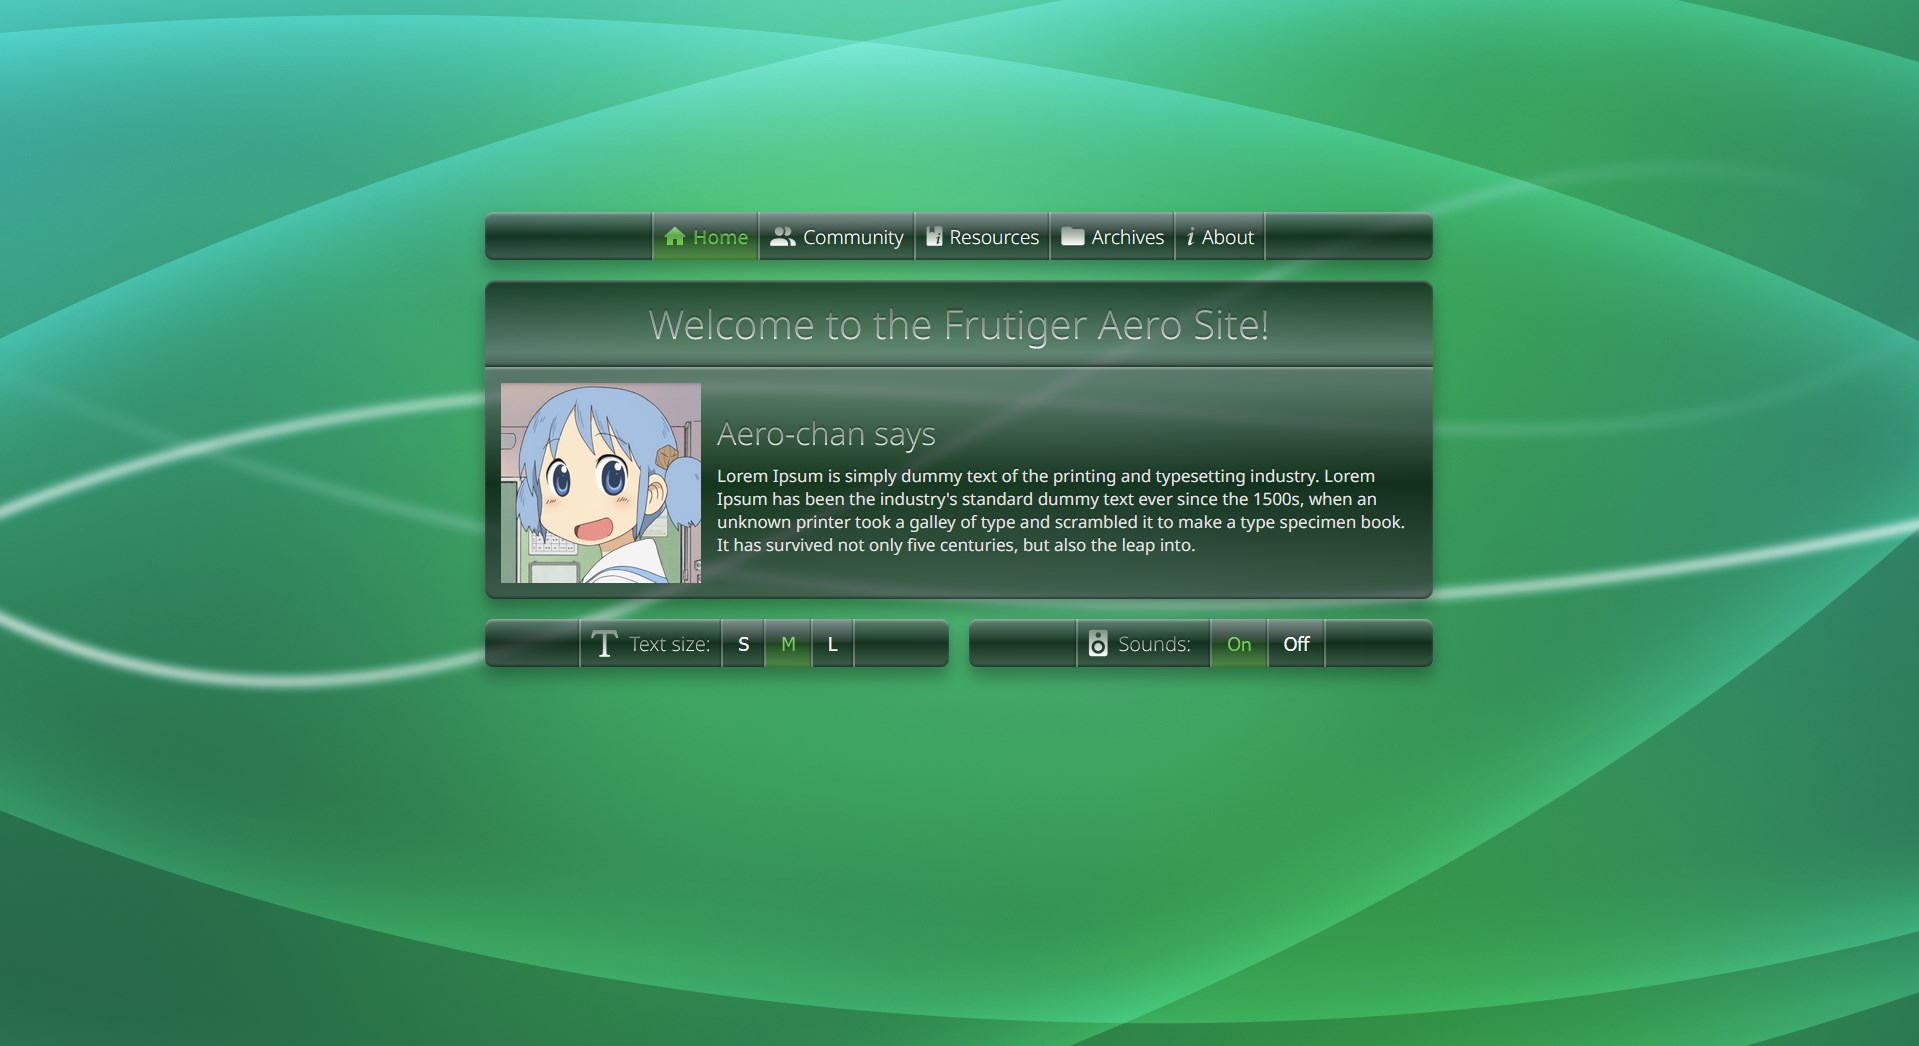
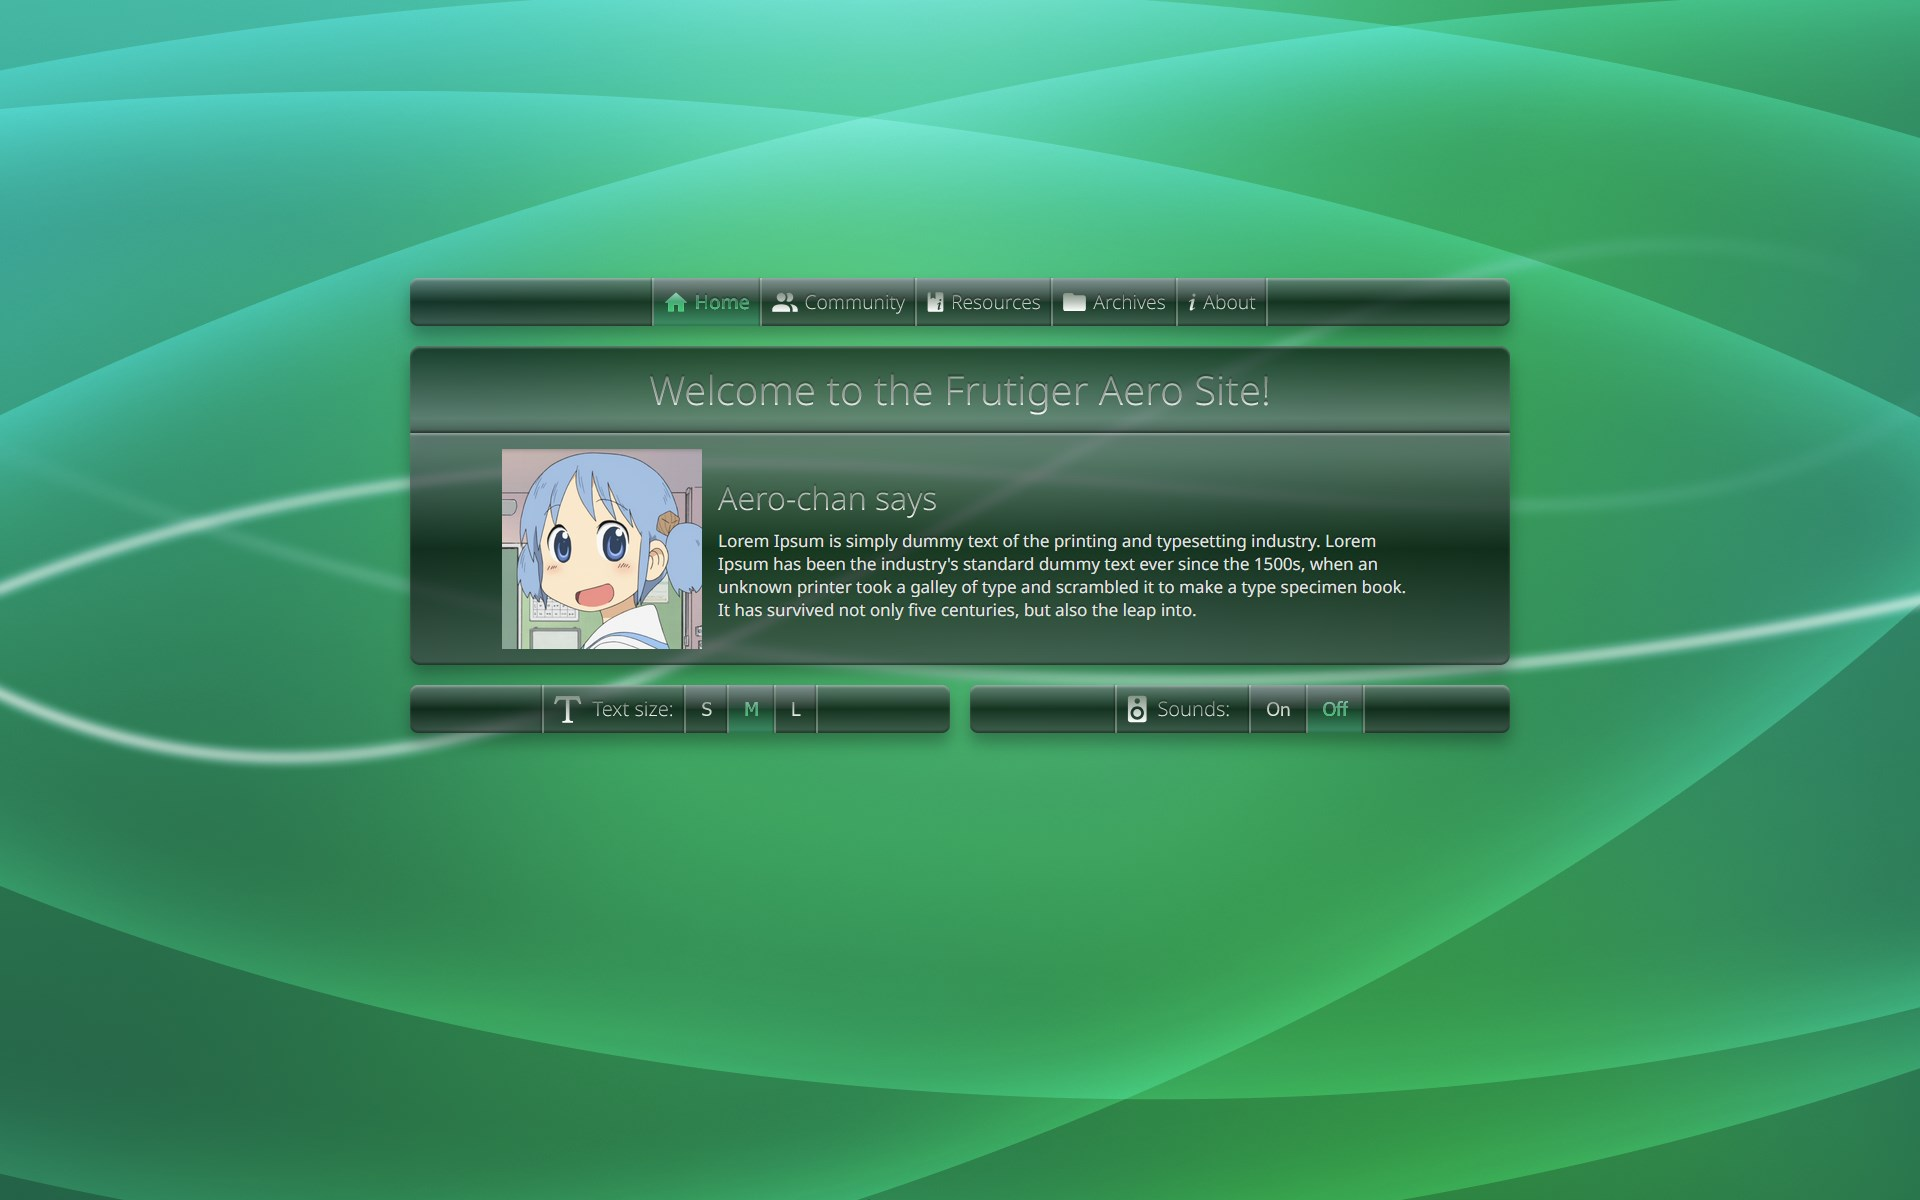
Changed colors

diff --git a/community.html b/community.html
@@ -37,8 +37,8 @@
     <nav id="mainNav" aria-label="Main Navigation">
       <div class="vertical-separators"></div>
       <!-- Home -->
-      <a href="index.html" class="main-nav-links"
-        ><img src="images/navbar/inactive/home.svg" alt="Nav Home" /><span
+      <a href="index.html" class="main-nav-links-inactive"
+        ><img src="images/navbar/inactive/home.svg" alt="" /><span
           >Home</span
         ></a
       >
@@ -46,34 +46,31 @@
 
       <!-- Community -->
       <a href="community.html" class="main-nav-links-active"
-        ><img
-          src="images/navbar/active/community.svg"
-          alt="Nav Community"
-        /><span>Community</span></a
+        ><img src="images/navbar/active/community.svg" alt="" /><span
+          >Community</span
+        ></a
       >
       <div class="vertical-separators"></div>
 
       <!-- Resources -->
-      <a href="resources.html" class="main-nav-links"
-        ><img
-          src="images/navbar/inactive/resources.svg"
-          alt="Nav Resources"
-        /><span>Resources</span></a
+      <a href="resources.html" class="main-nav-links-inactive"
+        ><img src="images/navbar/inactive/resources.svg" alt="" /><span
+          >Resources</span
+        ></a
       >
       <div class="vertical-separators"></div>
 
       <!-- Archives -->
-      <a href="archives.html" class="main-nav-links"
-        ><img
-          src="images/navbar/inactive/archives.svg"
-          alt="Nav Archives"
-        /><span>Archives</span></a
+      <a href="archives.html" class="main-nav-links-inactive"
+        ><img src="images/navbar/inactive/archives.svg" alt="" /><span
+          >Archives</span
+        ></a
       >
       <div class="vertical-separators"></div>
 
       <!-- About -->
-      <a href="about.html" class="main-nav-links"
-        ><img src="images/navbar/inactive/about.svg" alt="Nav About" /><span
+      <a href="about.html" class="main-nav-links-inactive"
+        ><img src="images/navbar/inactive/about.svg" alt="" /><span
           >About</span
         ></a
       >
@@ -108,12 +105,16 @@
       <div class="settings-bar-divs" aria-label="Settings: Text Size">
         <div class="vertical-separators"></div>
         <!-- Text size -->
-        <img src="images/home/text_size.svg" alt="Text Size Image" />
+        <img src="images/home/text_size.svg" alt="" />
         <span class="settings-titles">Text size:</span>
         <div class="vertical-separators"></div>
 
         <!-- S -->
-        <button class="settings-buttons" id="small" aria-label="Text: Small">
+        <button
+          class="settings-buttons-inactive"
+          id="small"
+          aria-label="Text: Small"
+        >
           <span>S</span>
         </button>
         <div class="vertical-separators"></div>
@@ -129,7 +130,11 @@
         <div class="vertical-separators"></div>
 
         <!-- L -->
-        <button class="settings-buttons" id="large" aria-label="Text: Large">
+        <button
+          class="settings-buttons-inactive"
+          id="large"
+          aria-label="Text: Large"
+        >
           <span>L</span>
         </button>
         <div class="vertical-separators"></div>
@@ -138,12 +143,16 @@
       <div class="settings-bar-divs" aria-label="Settings: Sound">
         <div class="vertical-separators"></div>
         <!-- Sounds -->
-        <img src="images/home/sounds.svg" alt="Sounds Image" />
+        <img src="images/home/sounds.svg" alt="" />
         <span class="settings-titles">Sounds:</span>
         <div class="vertical-separators"></div>
 
         <!-- On -->
-        <button class="settings-buttons" id="on" aria-label="Sounds: On">
+        <button
+          class="settings-buttons-inactive"
+          id="on"
+          aria-label="Sounds: On"
+        >
           <span>On</span>
         </button>
         <div class="vertical-separators"></div>

diff --git a/index.html b/index.html
@@ -38,42 +38,37 @@
       <div class="vertical-separators"></div>
       <!-- Home -->
       <a href="index.html" class="main-nav-links-active"
-        ><img src="images/navbar/active/home.svg" alt="Nav Home" /><span
-          >Home</span
-        ></a
+        ><img src="images/navbar/active/home.svg" alt="" /><span>Home</span></a
       >
       <div class="vertical-separators"></div>
 
       <!-- Community -->
-      <a href="community.html" class="main-nav-links"
-        ><img
-          src="images/navbar/inactive/community.svg"
-          alt="Nav Community"
-        /><span>Community</span></a
+      <a href="community.html" class="main-nav-links-inactive"
+        ><img src="images/navbar/inactive/community.svg" alt="" /><span
+          >Community</span
+        ></a
       >
       <div class="vertical-separators"></div>
 
       <!-- Resources -->
-      <a href="resources.html" class="main-nav-links"
-        ><img
-          src="images/navbar/inactive/resources.svg"
-          alt="Nav Resources"
-        /><span>Resources</span></a
+      <a href="resources.html" class="main-nav-links-inactive"
+        ><img src="images/navbar/inactive/resources.svg" alt="" /><span
+          >Resources</span
+        ></a
       >
       <div class="vertical-separators"></div>
 
       <!-- Archives -->
-      <a href="archives.html" class="main-nav-links"
-        ><img
-          src="images/navbar/inactive/archives.svg"
-          alt="Nav Archives"
-        /><span>Archives</span></a
+      <a href="archives.html" class="main-nav-links-inactive"
+        ><img src="images/navbar/inactive/archives.svg" alt="" /><span
+          >Archives</span
+        ></a
       >
       <div class="vertical-separators"></div>
 
       <!-- About -->
-      <a href="about.html" class="main-nav-links"
-        ><img src="images/navbar/inactive/about.svg" alt="Nav About" /><span
+      <a href="about.html" class="main-nav-links-inactive"
+        ><img src="images/navbar/inactive/about.svg" alt="" /><span
           >About</span
         ></a
       >
@@ -108,12 +103,16 @@
       <div class="settings-bar-divs" aria-label="Settings: Text Size">
         <div class="vertical-separators"></div>
         <!-- Text size -->
-        <img src="images/home/text_size.svg" alt="Text Size Image" />
+        <img src="images/home/text_size.svg" alt="" />
         <span class="settings-titles">Text size:</span>
         <div class="vertical-separators"></div>
 
         <!-- S -->
-        <button class="settings-buttons" id="small" aria-label="Text: Small">
+        <button
+          class="settings-buttons-inactive"
+          id="small"
+          aria-label="Text: Small"
+        >
           <span>S</span>
         </button>
         <div class="vertical-separators"></div>
@@ -129,7 +128,11 @@
         <div class="vertical-separators"></div>
 
         <!-- L -->
-        <button class="settings-buttons" id="large" aria-label="Text: Large">
+        <button
+          class="settings-buttons-inactive"
+          id="large"
+          aria-label="Text: Large"
+        >
           <span>L</span>
         </button>
         <div class="vertical-separators"></div>
@@ -138,12 +141,16 @@
       <div class="settings-bar-divs" aria-label="Settings: Sound">
         <div class="vertical-separators"></div>
         <!-- Sounds -->
-        <img src="images/home/sounds.svg" alt="Sounds Image" />
+        <img src="images/home/sounds.svg" alt="" />
         <span class="settings-titles">Sounds:</span>
         <div class="vertical-separators"></div>
 
         <!-- On -->
-        <button class="settings-buttons" id="on" aria-label="Sounds: On">
+        <button
+          class="settings-buttons-inactive"
+          id="on"
+          aria-label="Sounds: On"
+        >
           <span>On</span>
         </button>
         <div class="vertical-separators"></div>

diff --git a/css/global.css b/css/global.css
@@ -82,7 +82,7 @@ button {
   height: 20px;
 }
 /* Navigation links + images */
-.main-nav-links,
+.main-nav-links-inactive,
 .main-nav-links-active {
   display: flex;
   flex-direction: row;
@@ -94,12 +94,13 @@ button {
   font-weight: 300;
   text-shadow: 0px -2px 1px rgba(0, 0, 0, 0.25);
 }
+
 /* Active link style */
 .main-nav-links-active {
   background: linear-gradient(
       180deg,
-      rgba(91, 168, 74, 0) 30%,
-      rgba(105, 209, 55, 0.4) 100%
+      rgba(74, 168, 135, 0) 30%,
+      rgba(55, 209, 135, 0.4) 100%
     ),
     linear-gradient(
       180deg,
@@ -111,13 +112,14 @@ button {
 /* Active link text */
 .main-nav-links-active span {
   font-weight: 500;
-  background: linear-gradient(180deg, #9ed69b 0%, #6fd159 48.44%, #69d137 100%);
+  background: linear-gradient(180deg, #9bd6bf 0%, #4aa877 48.44%, #37d16d 100%),
+    linear-gradient(180deg, rgba(138, 153, 138, 0.9) 0%, #ffffff 100%);
   -webkit-background-clip: text;
   -webkit-text-fill-color: transparent;
   background-clip: text;
 }
 /* Inactive links style and hover effect */
-.main-nav-links {
+.main-nav-links-inactive {
   position: relative;
   background: linear-gradient(
     180deg,
@@ -128,7 +130,7 @@ button {
   transition: all 0.1s ease-in;
   overflow: hidden;
 }
-.main-nav-links::before {
+.main-nav-links-inactive::before {
   content: "";
   position: absolute;
   inset: 0;
@@ -141,8 +143,19 @@ button {
   transition: opacity 0.1s ease-in;
   z-index: 1;
 }
-.main-nav-links:hover::before {
+.main-nav-links-inactive:hover::before {
   opacity: 1;
+}
+/* Inactive link text */
+.main-nav-links-inactive span {
+  background: linear-gradient(
+    180deg,
+    rgba(138, 153, 138, 0.9) 0%,
+    #ffffff 100%
+  );
+  -webkit-background-clip: text;
+  -webkit-text-fill-color: transparent;
+  background-clip: text;
 }
 
 /* Main Content (Under navbar) */
@@ -163,7 +176,7 @@ button {
   }
 
   /* Make nav buttons full width */
-  .main-nav-links,
+  .main-nav-links-inactive,
   .main-nav-links-active {
     width: 100%;
   }

diff --git a/css/index.css b/css/index.css
@@ -169,9 +169,8 @@ body {
   cursor: default;
 }
 /* All buttons */
-.settings-buttons,
+.settings-buttons-inactive,
 .settings-buttons-active {
-  color: white;
   display: flex;
   flex-direction: row;
   align-items: center;
@@ -184,7 +183,7 @@ body {
   padding: 0px 15px;
 }
 /* Inactive Buttons style and hover effect */
-.settings-buttons {
+.settings-buttons-inactive {
   position: relative;
   background: linear-gradient(
     180deg,
@@ -195,7 +194,7 @@ body {
   transition: all 0.1s ease-in;
   overflow: hidden;
 }
-.settings-buttons::before {
+.settings-buttons-inactive::before {
   content: "";
   position: absolute;
   inset: 0;
@@ -208,15 +207,15 @@ body {
   transition: opacity 0.1s ease-in;
   z-index: 1;
 }
-.settings-buttons:hover::before {
+.settings-buttons-inactive:hover::before {
   opacity: 1;
 }
 /* Active Buttons */
 .settings-buttons-active {
   background: linear-gradient(
       180deg,
-      rgba(91, 168, 74, 0) 30%,
-      rgba(105, 209, 55, 0.4) 100%
+      rgba(74, 168, 135, 0) 30%,
+      rgba(55, 209, 135, 0.4) 100%
     ),
     linear-gradient(
       180deg,
@@ -225,10 +224,23 @@ body {
       rgba(61, 65, 67, 0) 50%
     );
 }
+
 /* Active Buttons text */
 .settings-buttons-active span {
   font-weight: 500;
-  background: linear-gradient(180deg, #9ed69b 0%, #6fd159 48.44%, #69d137 100%);
+  background: linear-gradient(180deg, #9bd6bf 0%, #4aa877 48.44%, #37d16d 100%),
+    linear-gradient(180deg, rgba(138, 153, 138, 0.9) 0%, #ffffff 100%);
+  -webkit-background-clip: text;
+  -webkit-text-fill-color: transparent;
+  background-clip: text;
+}
+/* Inactive link text */
+.settings-buttons-inactive span {
+  background: linear-gradient(
+    180deg,
+    rgba(138, 153, 138, 0.9) 0%,
+    #ffffff 100%
+  );
   -webkit-background-clip: text;
   -webkit-text-fill-color: transparent;
   background-clip: text;
